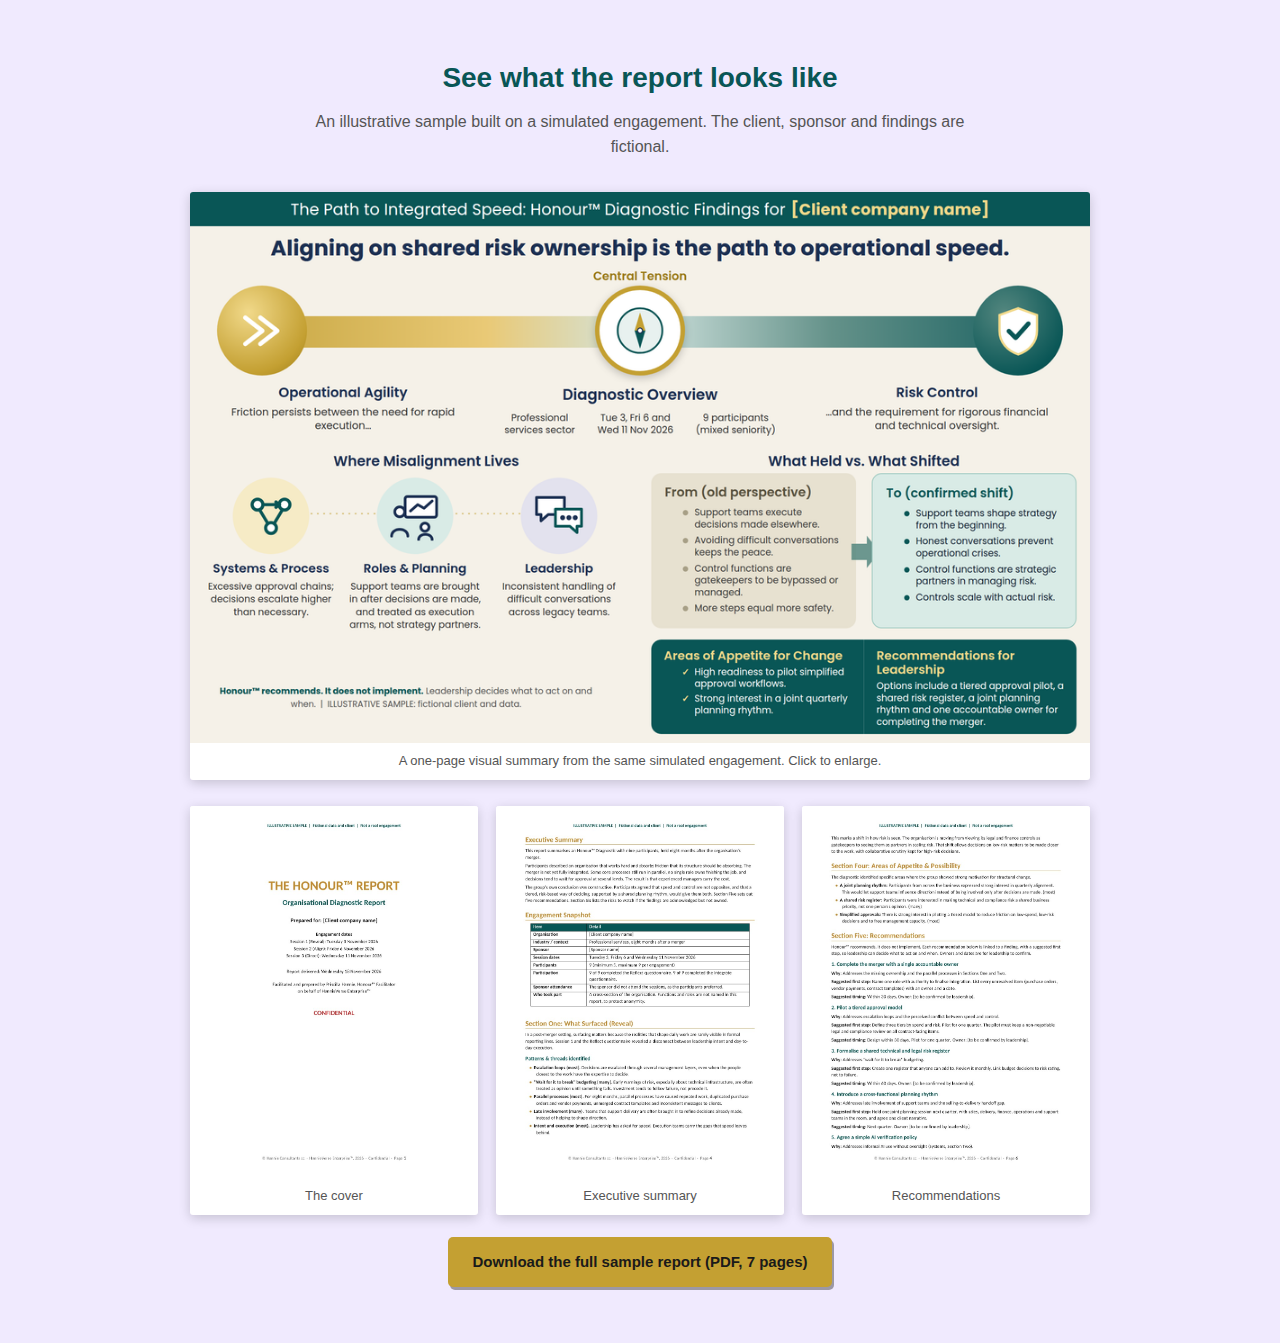
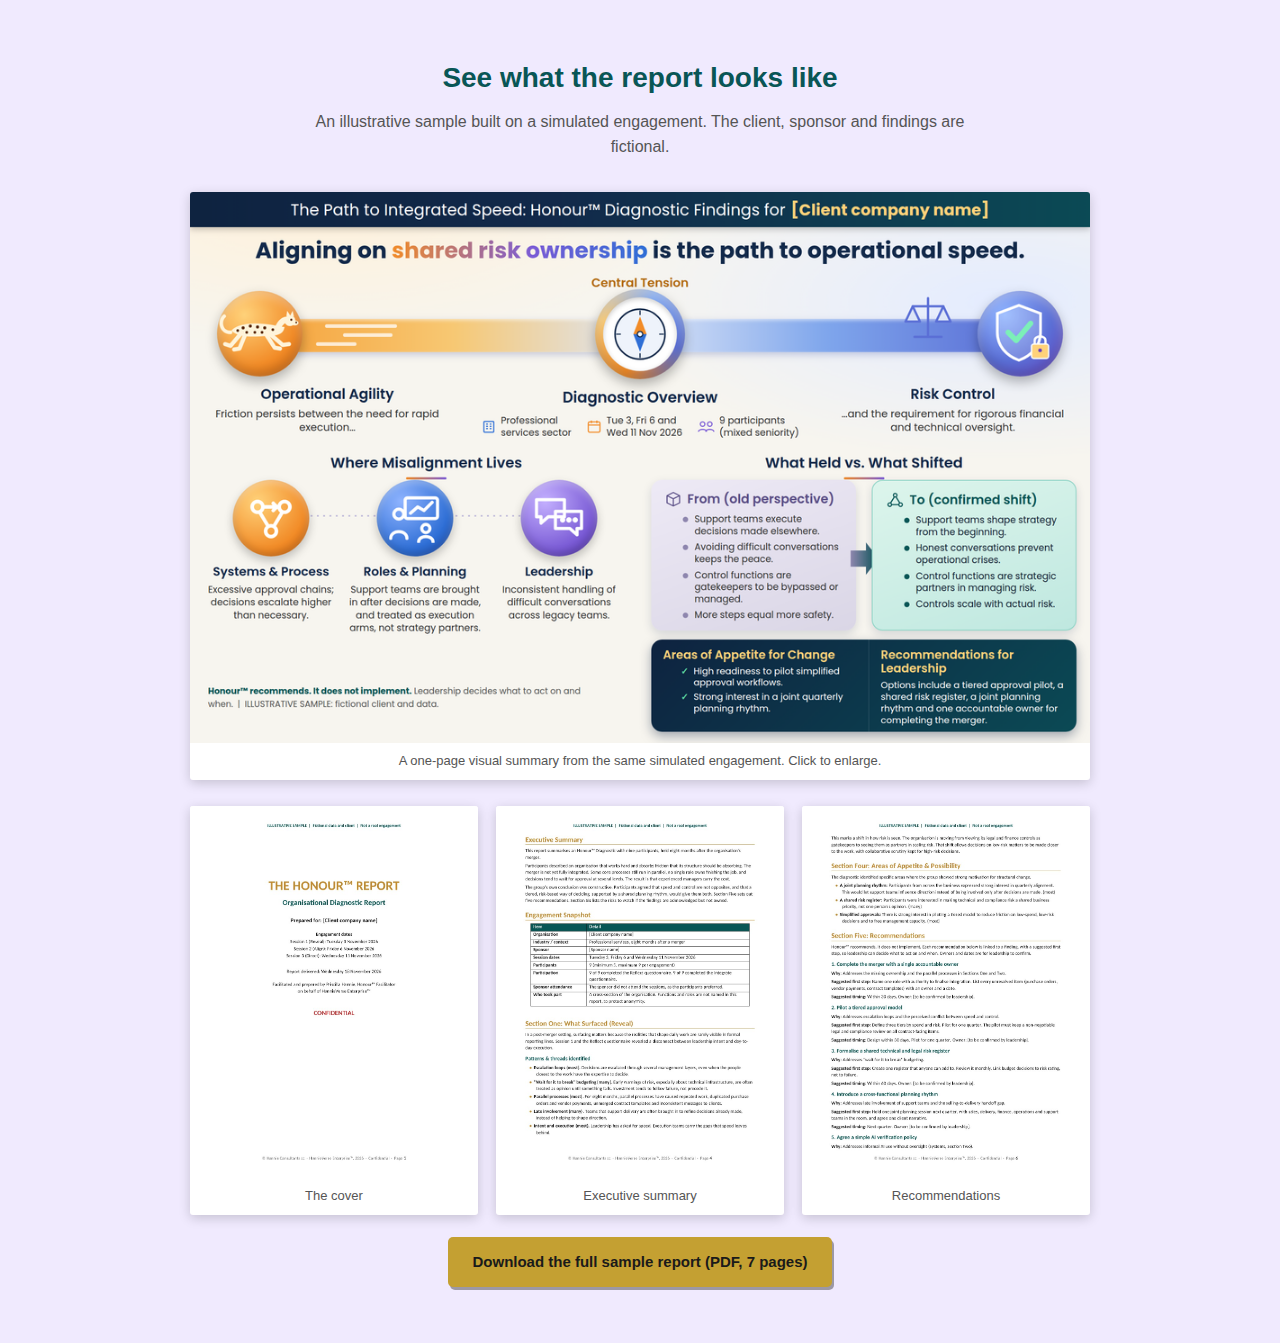
Add vibrant version of the report infographic and use it in the Honour mock-up
Claude-Session: https://claude.ai/code/session_01VGNF22YqMhet38GotcC9rv

Changed region(s): [[0.125, 0.125, 0.8438, 0.5625], [0.1562, 0.5, 0.4375, 0.5312]]

diff --git a/qa/infographic/report-infographic-vibrant.html b/qa/infographic/report-infographic-vibrant.html
@@ -1,0 +1,112 @@
+<!doctype html>
+<html lang="en"><head><meta charset="utf-8"><title>Honour Report at a glance (illustrative, vibrant)</title>
+<style>
+@font-face{font-family:Poppins;font-weight:400;src:url(fonts/Poppins-400.ttf)}
+@font-face{font-family:Poppins;font-weight:500;src:url(fonts/Poppins-500.ttf)}
+@font-face{font-family:Poppins;font-weight:600;src:url(fonts/Poppins-600.ttf)}
+@font-face{font-family:Poppins;font-weight:700;src:url(fonts/Poppins-700.ttf)}
+:root{--navy:#12294A;--teal:#095656;--gold:#C4A032;--orange:#F28C28;--blue:#2F6FD6;--purple:#7B5CD6;--mint:#5BD6A0}
+*{box-sizing:border-box;margin:0}
+body{width:2000px;height:1225px;font-family:Poppins,sans-serif;color:#1A1A1A;position:relative;overflow:hidden;
+ background:radial-gradient(1200px 500px at 15% 0%,#FFF1DA 0%,rgba(255,241,218,0) 70%),radial-gradient(1200px 500px at 90% 20%,#E4ECFF 0%,rgba(228,236,255,0) 70%),#F7F5EF}
+.top{height:78px;background:linear-gradient(90deg,#0E2340,#12294A 40%,#0B4A55);color:#fff;display:flex;align-items:center;justify-content:center;font-size:35px;letter-spacing:.2px;box-shadow:0 4px 14px rgba(0,0,0,.25)}
+.top b{font-weight:700;color:#FFD27A;margin-left:12px}
+h1{text-align:center;font-size:50px;font-weight:700;margin-top:22px;line-height:1.2;color:var(--navy)}
+h1 span{background:linear-gradient(90deg,var(--orange),var(--purple) 55%,var(--blue));-webkit-background-clip:text;color:transparent}
+.tension{position:absolute;top:186px;left:0;width:2000px;height:400px}
+.bar{position:absolute;left:170px;right:170px;top:96px;height:74px;border-radius:37px;background:linear-gradient(90deg,#F6A33C 0%,#F7C873 25%,#DDE6F7 50%,#7FA6EC 75%,#5B6FD6 100%);box-shadow:inset 0 3px 8px rgba(255,255,255,.6),0 6px 16px rgba(60,80,160,.25)}
+.streak{position:absolute;height:8px;border-radius:4px;background:rgba(255,255,255,.75)}
+.orb{position:absolute;width:190px;height:190px;border-radius:50%;display:flex;align-items:center;justify-content:center;box-shadow:0 12px 26px rgba(0,0,0,.28),inset 0 -10px 24px rgba(0,0,0,.18),inset 0 10px 22px rgba(255,255,255,.35)}
+.cap{position:absolute;text-align:center;width:540px}
+.cap h3{font-size:31px;font-weight:600;color:var(--navy)}
+.cap p{font-size:23px;line-height:1.3;color:#333;margin-top:6px}
+.sec{position:absolute;font-size:32px;font-weight:600;color:var(--navy);text-align:center}
+.sec:after{content:"";display:block;width:90px;height:5px;border-radius:3px;margin:8px auto 0;background:linear-gradient(90deg,var(--orange),var(--purple))}
+.node{position:absolute;width:300px;text-align:center}
+.node h4{font-size:27px;font-weight:600;color:var(--navy);margin-top:14px}
+.node p{font-size:21px;line-height:1.35;color:#333;margin-top:6px}
+.ico{width:170px;height:170px;border-radius:50%;margin:0 auto;display:flex;align-items:center;justify-content:center;box-shadow:0 10px 20px rgba(0,0,0,.22),inset 0 -8px 18px rgba(0,0,0,.16),inset 0 8px 16px rgba(255,255,255,.35)}
+.card{position:absolute;border-radius:24px;padding:22px 30px;box-shadow:0 8px 20px rgba(20,40,80,.15)}
+.card h5{font-size:28px;font-weight:600;display:flex;align-items:center;gap:12px;margin-bottom:10px}
+.card ul{list-style:none}
+.card li{font-size:20.5px;line-height:1.3;margin-bottom:9px;padding-left:26px;position:relative}
+.card li:before{content:"";position:absolute;left:0;top:8px;width:12px;height:12px;border-radius:50%}
+.from{background:linear-gradient(160deg,#EEEAF6,#DAD6E6);color:#333}.from li:before{background:#8E86AE}.from h5{color:#5A4E86}
+.to{background:linear-gradient(160deg,#DDF5EC,#BFE8E0);color:#123;border:2px solid #8FD4C6}.to li:before{background:var(--teal)}.to h5{color:var(--teal)}
+.bottom{position:absolute;left:1025px;top:995px;width:945px;height:205px;border-radius:24px;background:linear-gradient(135deg,#0E2340,#0B4A55);color:#fff;display:grid;grid-template-columns:1.05fr 1fr;box-shadow:0 10px 24px rgba(10,30,60,.35);overflow:hidden}
+.bottom>div{padding:20px 26px}
+.bottom h5{color:#FFD27A;font-size:26px;font-weight:600;margin-bottom:8px;line-height:1.15}
+.bottom li{list-style:none;font-size:20px;line-height:1.28;margin-bottom:6px;padding-left:28px;position:relative}
+.bottom li:before{content:"\2713";position:absolute;left:0;color:var(--mint);font-weight:700}
+.bottom p{font-size:20px;line-height:1.3}
+.foot{position:absolute;left:0;width:960px;top:1095px;padding:0 40px;font-size:19px;color:#555}
+.foot b{color:var(--teal)}
+</style></head><body>
+<div class="top">The Path to Integrated Speed: Honour&trade; Diagnostic Findings for <b>[Client company name]</b></div>
+<h1>Aligning on <span>shared risk ownership</span> is the path to operational speed.</h1>
+
+<div class="tension">
+  <div class="bar"></div>
+  <div class="streak" style="left:300px;top:108px;width:160px"></div><div class="streak" style="left:340px;top:128px;width:110px"></div><div class="streak" style="left:280px;top:148px;width:90px"></div>
+  <!-- agility orb with cheetah -->
+  <div class="orb" style="left:60px;top:34px;background:radial-gradient(circle at 32% 28%,#FFD27A,#F28C28 62%,#C95F0C)">
+    <svg width="190" height="130" viewBox="0 0 190 130">
+      <g fill="none" stroke="#FFF4DA" stroke-linecap="round" stroke-linejoin="round">
+        <path d="M30 62 C8 62 4 36 16 26" stroke-width="8"/>
+        <path d="M118 66 L146 90 L160 88" stroke-width="9"/><path d="M110 68 L128 96 L140 98" stroke-width="9"/>
+        <path d="M52 66 L30 92 L18 88" stroke-width="9"/><path d="M62 68 L50 98 L38 100" stroke-width="9"/>
+      </g>
+      <path d="M32 58 C46 42 82 40 112 44 C130 46 140 50 150 50 C148 66 134 70 110 70 C78 72 48 74 32 58 Z" fill="#FFF4DA"/>
+      <path d="M136 50 C142 38 150 32 160 34" fill="none" stroke="#FFF4DA" stroke-width="13" stroke-linecap="round"/>
+      <circle cx="162" cy="36" r="12" fill="#FFF4DA"/><ellipse cx="173" cy="41" rx="8" ry="5.5" fill="#FFF4DA"/>
+      <path d="M154 26 L156 14 L163 25 Z M163 24 L168 14 L171 27 Z" fill="#FFF4DA"/>
+      <circle cx="165" cy="34" r="2.4" fill="#5A2A0A"/><circle cx="176" cy="40" r="2" fill="#5A2A0A"/>
+      <g fill="#5A2A0A"><circle cx="58" cy="52" r="3.4"/><circle cx="74" cy="48" r="3.4"/><circle cx="90" cy="50" r="3.4"/><circle cx="106" cy="52" r="3.4"/><circle cx="66" cy="62" r="3"/><circle cx="84" cy="62" r="3"/><circle cx="100" cy="62" r="3"/><circle cx="124" cy="56" r="3"/><circle cx="46" cy="58" r="3"/></g>
+    </svg>
+  </div>
+  <div class="cap" style="left:35px;top:240px"><h3>Operational Agility</h3><p>Friction persists between the need for rapid execution&hellip;</p></div>
+
+  <!-- centre compass -->
+  <div class="sec" style="left:700px;width:600px;top:-4px;font-size:27px;color:#B26A0E">Central Tension</div>
+  <div class="orb" style="left:900px;top:30px;width:200px;height:200px;background:conic-gradient(from 200deg,#F28C28,#F7C873,#7FA6EC,#5B6FD6,#F28C28)">
+    <div style="width:164px;height:164px;border-radius:50%;background:#fff;display:flex;align-items:center;justify-content:center;box-shadow:inset 0 4px 12px rgba(0,0,0,.2)">
+      <svg width="130" height="130" viewBox="0 0 150 150"><circle cx="75" cy="75" r="64" fill="#EEF3FB" stroke="#12294A" stroke-width="4"/><g stroke="#12294A" stroke-width="3"><path d="M75 14 V26 M75 124 V136 M14 75 H26 M124 75 H136"/></g><path d="M75 30 L92 75 L58 75 Z" fill="#F28C28"/><path d="M75 120 L58 75 L92 75 Z" fill="#2F6FD6"/><circle cx="75" cy="75" r="7" fill="#fff" stroke="#12294A" stroke-width="3"/></svg>
+    </div>
+  </div>
+  <div style="position:absolute;left:610px;width:780px;top:246px;text-align:center">
+    <div style="font-size:33px;font-weight:600;color:var(--navy)">Diagnostic Overview</div>
+    <div style="display:flex;justify-content:center;gap:34px;margin-top:12px;font-size:21px;color:#333;line-height:1.3">
+      <div style="display:flex;gap:10px;align-items:center;text-align:left"><svg width="34" height="34" viewBox="0 0 34 34" fill="none" stroke="#2F6FD6" stroke-width="2.5"><rect x="6" y="6" width="22" height="24" rx="2"/><path d="M11 12h4M19 12h4M11 17h4M19 17h4M11 22h4M19 22h4"/></svg>Professional<br>services sector</div>
+      <div style="display:flex;gap:10px;align-items:center;text-align:left"><svg width="34" height="34" viewBox="0 0 34 34" fill="none" stroke="#F28C28" stroke-width="2.5"><rect x="4" y="7" width="26" height="23" rx="3"/><path d="M4 14h26M11 4v6M23 4v6"/></svg>Tue 3, Fri 6 and<br>Wed 11 Nov 2026</div>
+      <div style="display:flex;gap:10px;align-items:center;text-align:left"><svg width="38" height="34" viewBox="0 0 38 34" fill="none" stroke="#7B5CD6" stroke-width="2.5"><circle cx="11" cy="12" r="5"/><circle cx="27" cy="12" r="5"/><path d="M2 29c0-7 18-7 18 0M18 29c0-7 18-7 18 0"/></svg>9 participants<br>(mixed seniority)</div>
+    </div>
+  </div>
+
+  <!-- control orb with shield and lock -->
+  <div class="orb" style="right:60px;top:34px;background:radial-gradient(circle at 32% 28%,#8FB4FF,#5B6FD6 55%,#6A3FC0)">
+    <svg width="150" height="150" viewBox="0 0 150 150"><path d="M72 12 L120 30 V72 C120 102 100 124 72 134 C44 124 24 102 24 72 V30 Z" fill="#fff" fill-opacity=".18" stroke="#fff" stroke-width="6"/><path d="M48 72 L66 90 L98 52" fill="none" stroke="#7CF0B8" stroke-width="12" stroke-linecap="round" stroke-linejoin="round"/><rect x="100" y="98" width="38" height="32" rx="5" fill="#FFD27A" stroke="#fff" stroke-width="3"/><path d="M107 98 V90 C107 78 131 78 131 90 V98" fill="none" stroke="#fff" stroke-width="5"/><circle cx="119" cy="112" r="4" fill="#6A3FC0"/></svg>
+  </div>
+  <svg style="position:absolute;right:300px;top:40px" width="120" height="110" viewBox="0 0 120 110" fill="none" stroke="#5B6FD6" stroke-width="5" stroke-linecap="round" stroke-linejoin="round"><path d="M60 10 V92 M30 96 H90"/><path d="M26 28 H94"/><path d="M26 28 L10 62 H42 Z M94 28 L78 62 H110 Z" fill="#DDE6F7"/></svg>
+  <div class="cap" style="right:35px;top:240px"><h3>Risk Control</h3><p>&hellip;and the requirement for rigorous financial and technical oversight.</p></div>
+</div>
+
+<div class="sec" style="left:50px;width:950px;top:578px">Where Misalignment Lives</div>
+<svg style="position:absolute;left:0;top:640px" width="1000" height="200" viewBox="0 0 1000 200" fill="none" stroke="#B9B2D8" stroke-width="3"><path d="M170 80 H830" stroke-dasharray="4 10"/></svg>
+<div class="node" style="left:30px;top:640px"><div class="ico" style="background:radial-gradient(circle at 32% 28%,#FFD27A,#F28C28 65%,#C95F0C)"><svg width="110" height="110" viewBox="0 0 110 110" fill="none" stroke="#fff" stroke-width="8" stroke-linecap="round" stroke-linejoin="round"><circle cx="25" cy="30" r="12"/><circle cx="85" cy="30" r="12"/><circle cx="55" cy="84" r="12"/><path d="M37 30 H66"/><path d="M60 22 L68 30 L60 38"/><path d="M80 42 L62 72"/><path d="M48 72 L30 42"/></svg></div><h4>Systems &amp; Process</h4><p>Excessive approval chains; decisions escalate higher than necessary.</p></div>
+<div class="node" style="left:350px;top:640px"><div class="ico" style="background:radial-gradient(circle at 32% 28%,#8FB4FF,#2F6FD6 65%,#1E4AA8)"><svg width="120" height="110" viewBox="0 0 120 110" fill="none" stroke="#fff" stroke-width="7" stroke-linecap="round" stroke-linejoin="round"><rect x="38" y="10" width="72" height="46" rx="5"/><path d="M50 44 L66 30 L80 38 L98 20"/><circle cx="24" cy="46" r="11"/><path d="M6 100 C6 80 42 80 42 100"/><circle cx="84" cy="78" r="9"/><path d="M68 108 C68 92 100 92 100 108"/></svg></div><h4>Roles &amp; Planning</h4><p>Support teams are brought in after decisions are made, and treated as execution arms, not strategy partners.</p></div>
+<div class="node" style="left:670px;top:640px"><div class="ico" style="background:radial-gradient(circle at 32% 28%,#C4B0FF,#7B5CD6 65%,#4B2FA0)"><svg width="120" height="110" viewBox="0 0 120 110" fill="none" stroke="#fff" stroke-width="7" stroke-linecap="round" stroke-linejoin="round"><path d="M10 14 H72 V52 H36 L20 66 V52 H10 Z"/><path d="M52 40 H110 V78 H100 V92 L84 78 H52 Z"/><circle cx="68" cy="59" r="2.5" fill="#fff"/><circle cx="82" cy="59" r="2.5" fill="#fff"/><circle cx="96" cy="59" r="2.5" fill="#fff"/></svg></div><h4>Leadership</h4><p>Inconsistent handling of difficult conversations across legacy teams.</p></div>
+
+<div class="sec" style="left:1025px;width:945px;top:578px">What Held vs. What Shifted</div>
+<div class="card from" style="left:1025px;top:640px;width:455px;height:335px"><h5><svg width="38" height="38" viewBox="0 0 38 38" fill="none" stroke="#5A4E86" stroke-width="2.5" stroke-linejoin="round"><path d="M19 4 L33 11 V27 L19 34 L5 27 V11 Z M5 11 L19 18 L33 11 M19 18 V34"/></svg>From (old perspective)</h5><ul>
+<li>Support teams execute decisions made elsewhere.</li><li>Avoiding difficult conversations keeps the peace.</li><li>Control functions are gatekeepers to be bypassed or managed.</li><li>More steps equal more safety.</li></ul></div>
+<svg style="position:absolute;left:1468px;top:775px" width="64" height="80" viewBox="0 0 64 80"><defs><linearGradient id="ag" x1="0" x2="1"><stop offset="0" stop-color="#8E86AE"/><stop offset="1" stop-color="#095656"/></linearGradient></defs><path d="M0 22 H34 V4 L62 40 L34 76 V58 H0 Z" fill="url(#ag)"/></svg>
+<div class="card to" style="left:1515px;top:640px;width:455px;height:335px"><h5><svg width="40" height="38" viewBox="0 0 40 38" fill="none" stroke="#095656" stroke-width="2.5" stroke-linecap="round"><circle cx="20" cy="8" r="4"/><circle cx="8" cy="29" r="4"/><circle cx="32" cy="29" r="4"/><path d="M18 12 L10 25 M22 12 L30 25 M12 29 H28"/></svg>To (confirmed shift)</h5><ul>
+<li>Support teams shape strategy from the beginning.</li><li>Honest conversations prevent operational crises.</li><li>Control functions are strategic partners in managing risk.</li><li>Controls scale with actual risk.</li></ul></div>
+
+<div class="bottom">
+  <div style="border-right:1px solid rgba(255,255,255,.2);">
+    <div><h5>Areas of Appetite for Change</h5><ul><li>High readiness to pilot simplified approval workflows.</li><li>Strong interest in a joint quarterly planning rhythm.</li></ul></div></div>
+  <div><div><h5>Recommendations for Leadership</h5><p>Options include a tiered approval pilot, a shared risk register, a joint planning rhythm and one accountable owner for completing the merger.</p></div></div>
+</div>
+<div class="foot"><b>Honour&trade; recommends. It does not implement.</b> Leadership decides what to act on and when. &nbsp;|&nbsp; ILLUSTRATIVE SAMPLE: fictional client and data.</div>
+</body></html>

diff --git a/qa/honour-page-mockup.html b/qa/honour-page-mockup.html
@@ -159,7 +159,7 @@
   <div class="wrap">
     <h2>See what the report looks like</h2>
     <p class="sub">An illustrative sample built on a simulated engagement. The client, sponsor and findings are fictional.</p>
-    <figure class="infog"><a href="infographic/report-infographic-2000.png"><img src="infographic/report-infographic-1000.png" alt="One-page infographic summarising a sample Honour diagnostic: the tension between operational speed and risk control, where misalignment sits (systems, roles, leadership), what shifted, areas of appetite for change, and recommendations for leadership."></a><figcaption>A one-page visual summary from the same simulated engagement. Click to enlarge.</figcaption></figure>
+    <figure class="infog"><a href="infographic/report-infographic-vibrant-2000.png"><img src="infographic/report-infographic-vibrant-1000.png" alt="One-page infographic summarising a sample Honour diagnostic: the tension between operational speed and risk control, where misalignment sits (systems, roles, leadership), what shifted, areas of appetite for change, and recommendations for leadership."></a><figcaption>A one-page visual summary from the same simulated engagement. Click to enlarge.</figcaption></figure>
     <div class="sample">
       <figure><a href="sample-report/sample-page-1.jpg"><img src="sample-report/sample-page-1.jpg" alt="Cover page of a sample Honour Report"></a><figcaption>The cover</figcaption></figure>
       <figure><a href="sample-report/sample-page-4.jpg"><img src="sample-report/sample-page-4.jpg" alt="Executive summary and engagement snapshot of a sample Honour Report"></a><figcaption>Executive summary</figcaption></figure>

diff --git a/qa/infographic/render-vibrant.js b/qa/infographic/render-vibrant.js
@@ -1,0 +1,5 @@
+const { chromium } = require(require('child_process').execSync('npm root -g').toString().trim()+'/playwright');
+(async()=>{const b=await chromium.launch({executablePath:'/opt/pw-browsers/chromium'});
+const p=await b.newPage({viewport:{width:2000,height:1225}});
+await p.goto('file://'+process.cwd()+'/report-infographic-vibrant.html');await p.evaluate(()=>document.fonts.ready);await p.waitForTimeout(400);
+await p.screenshot({path:'report-infographic-vibrant-2000.png'});await b.close();})();
